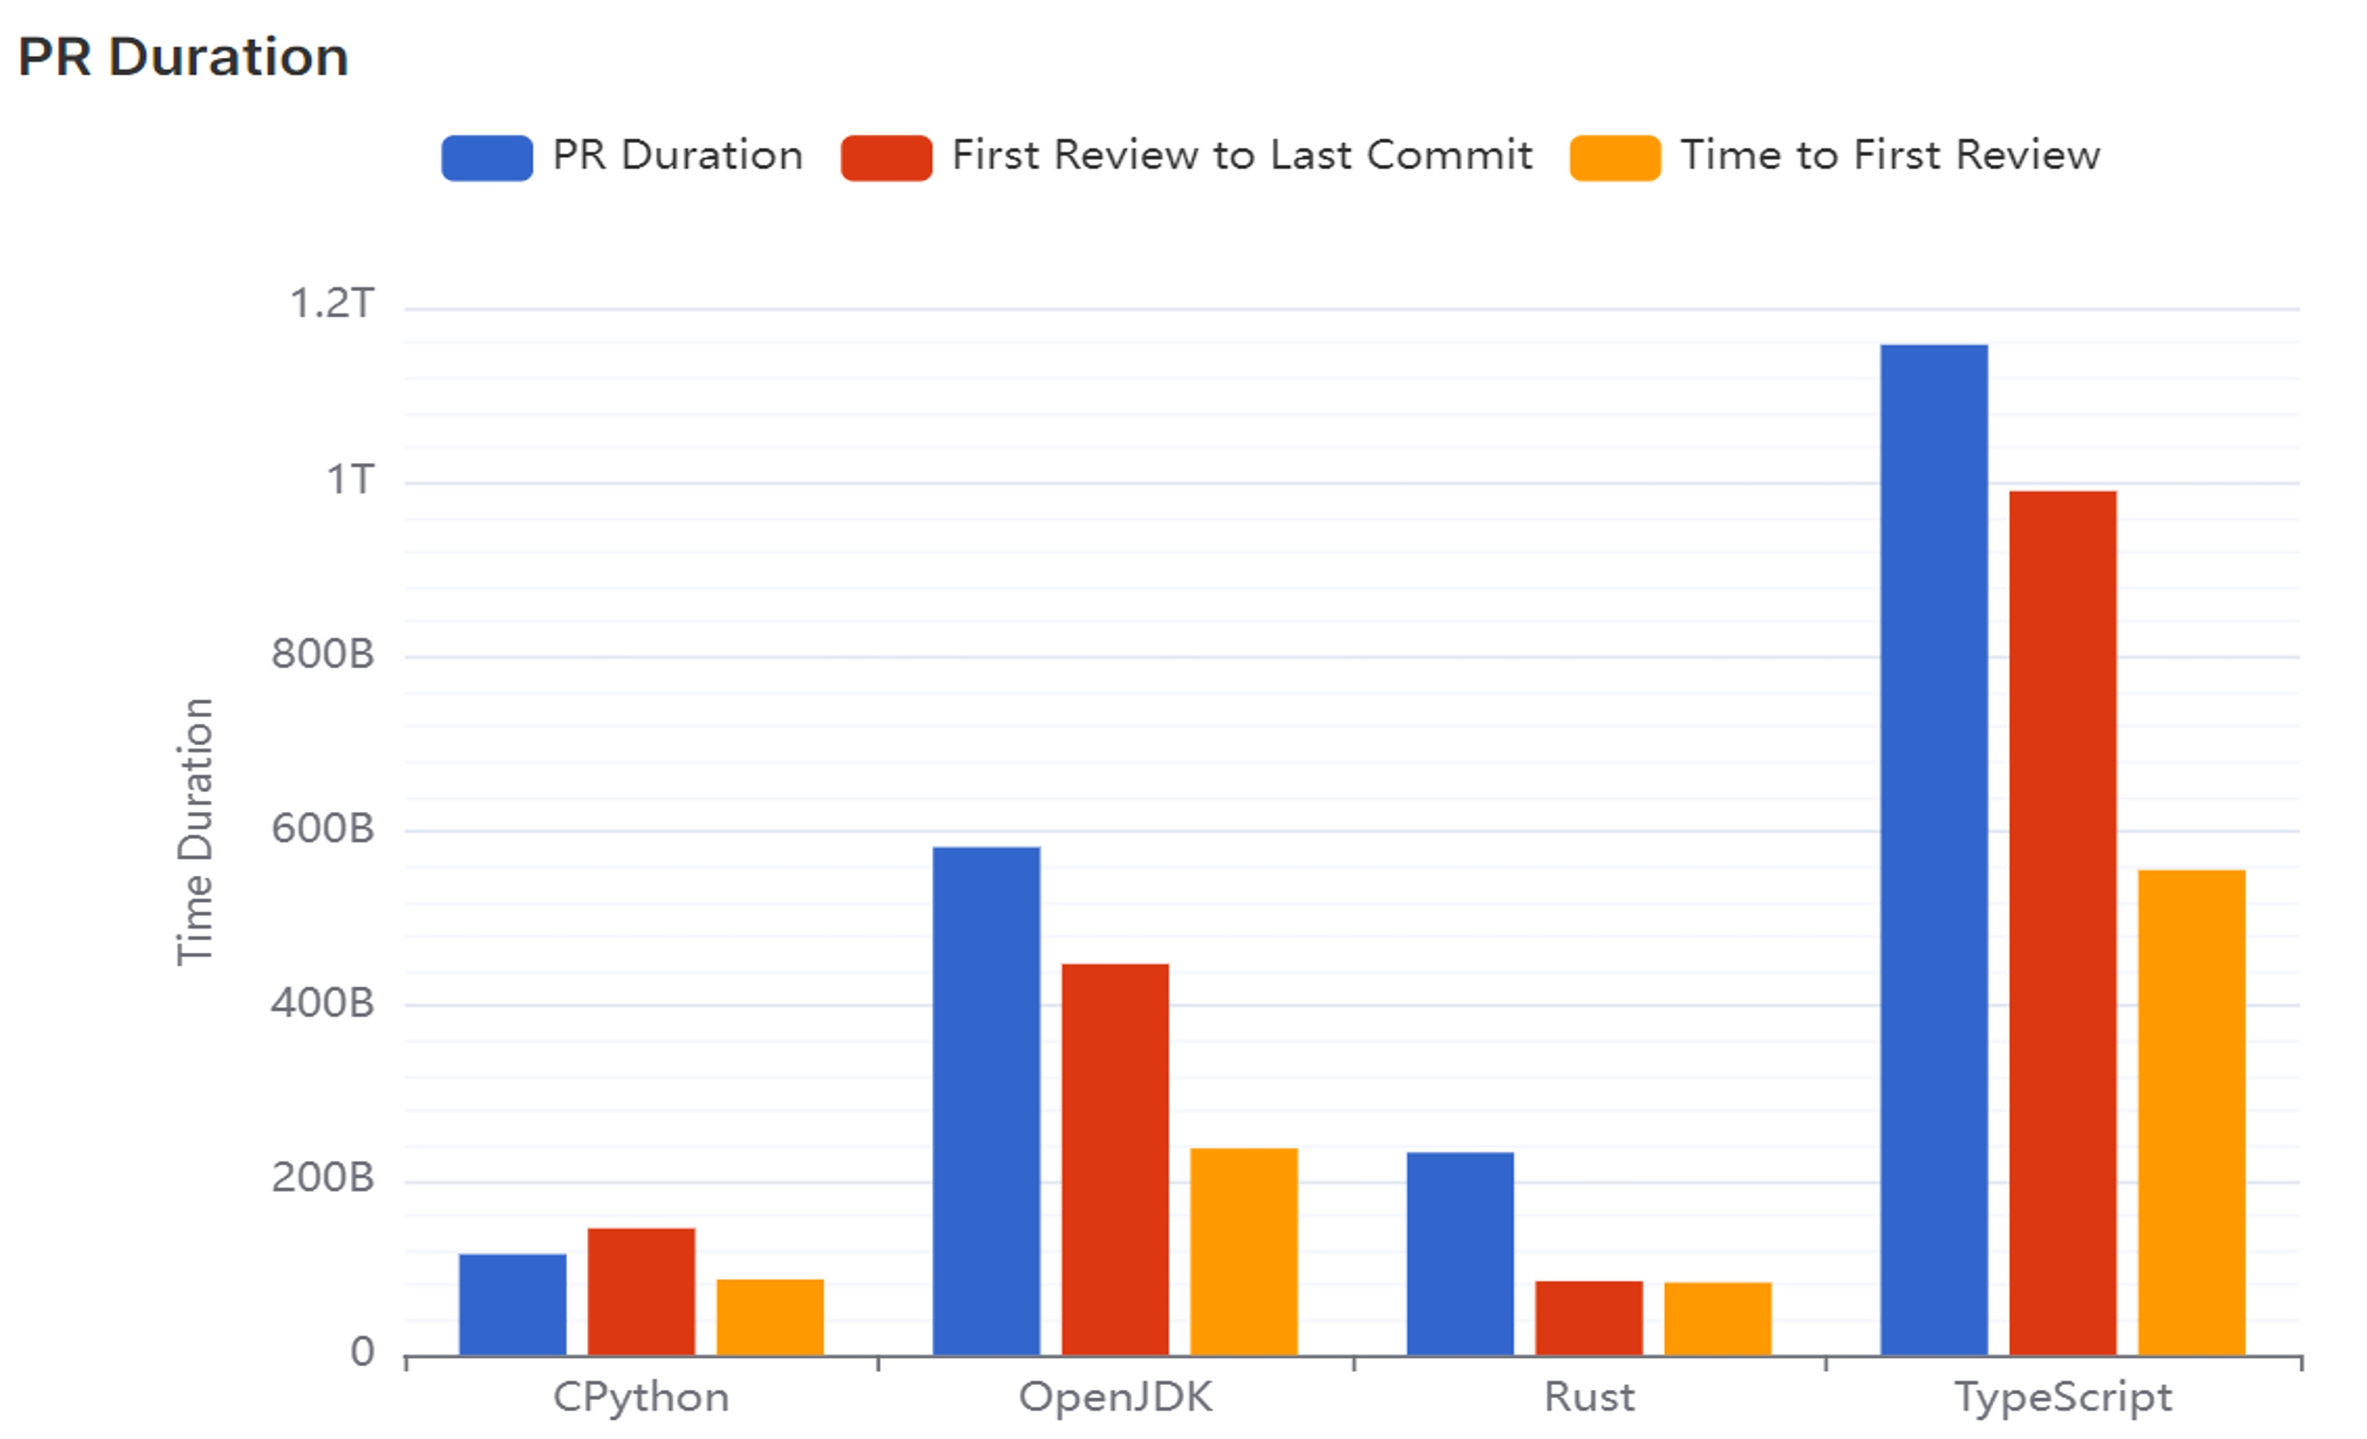
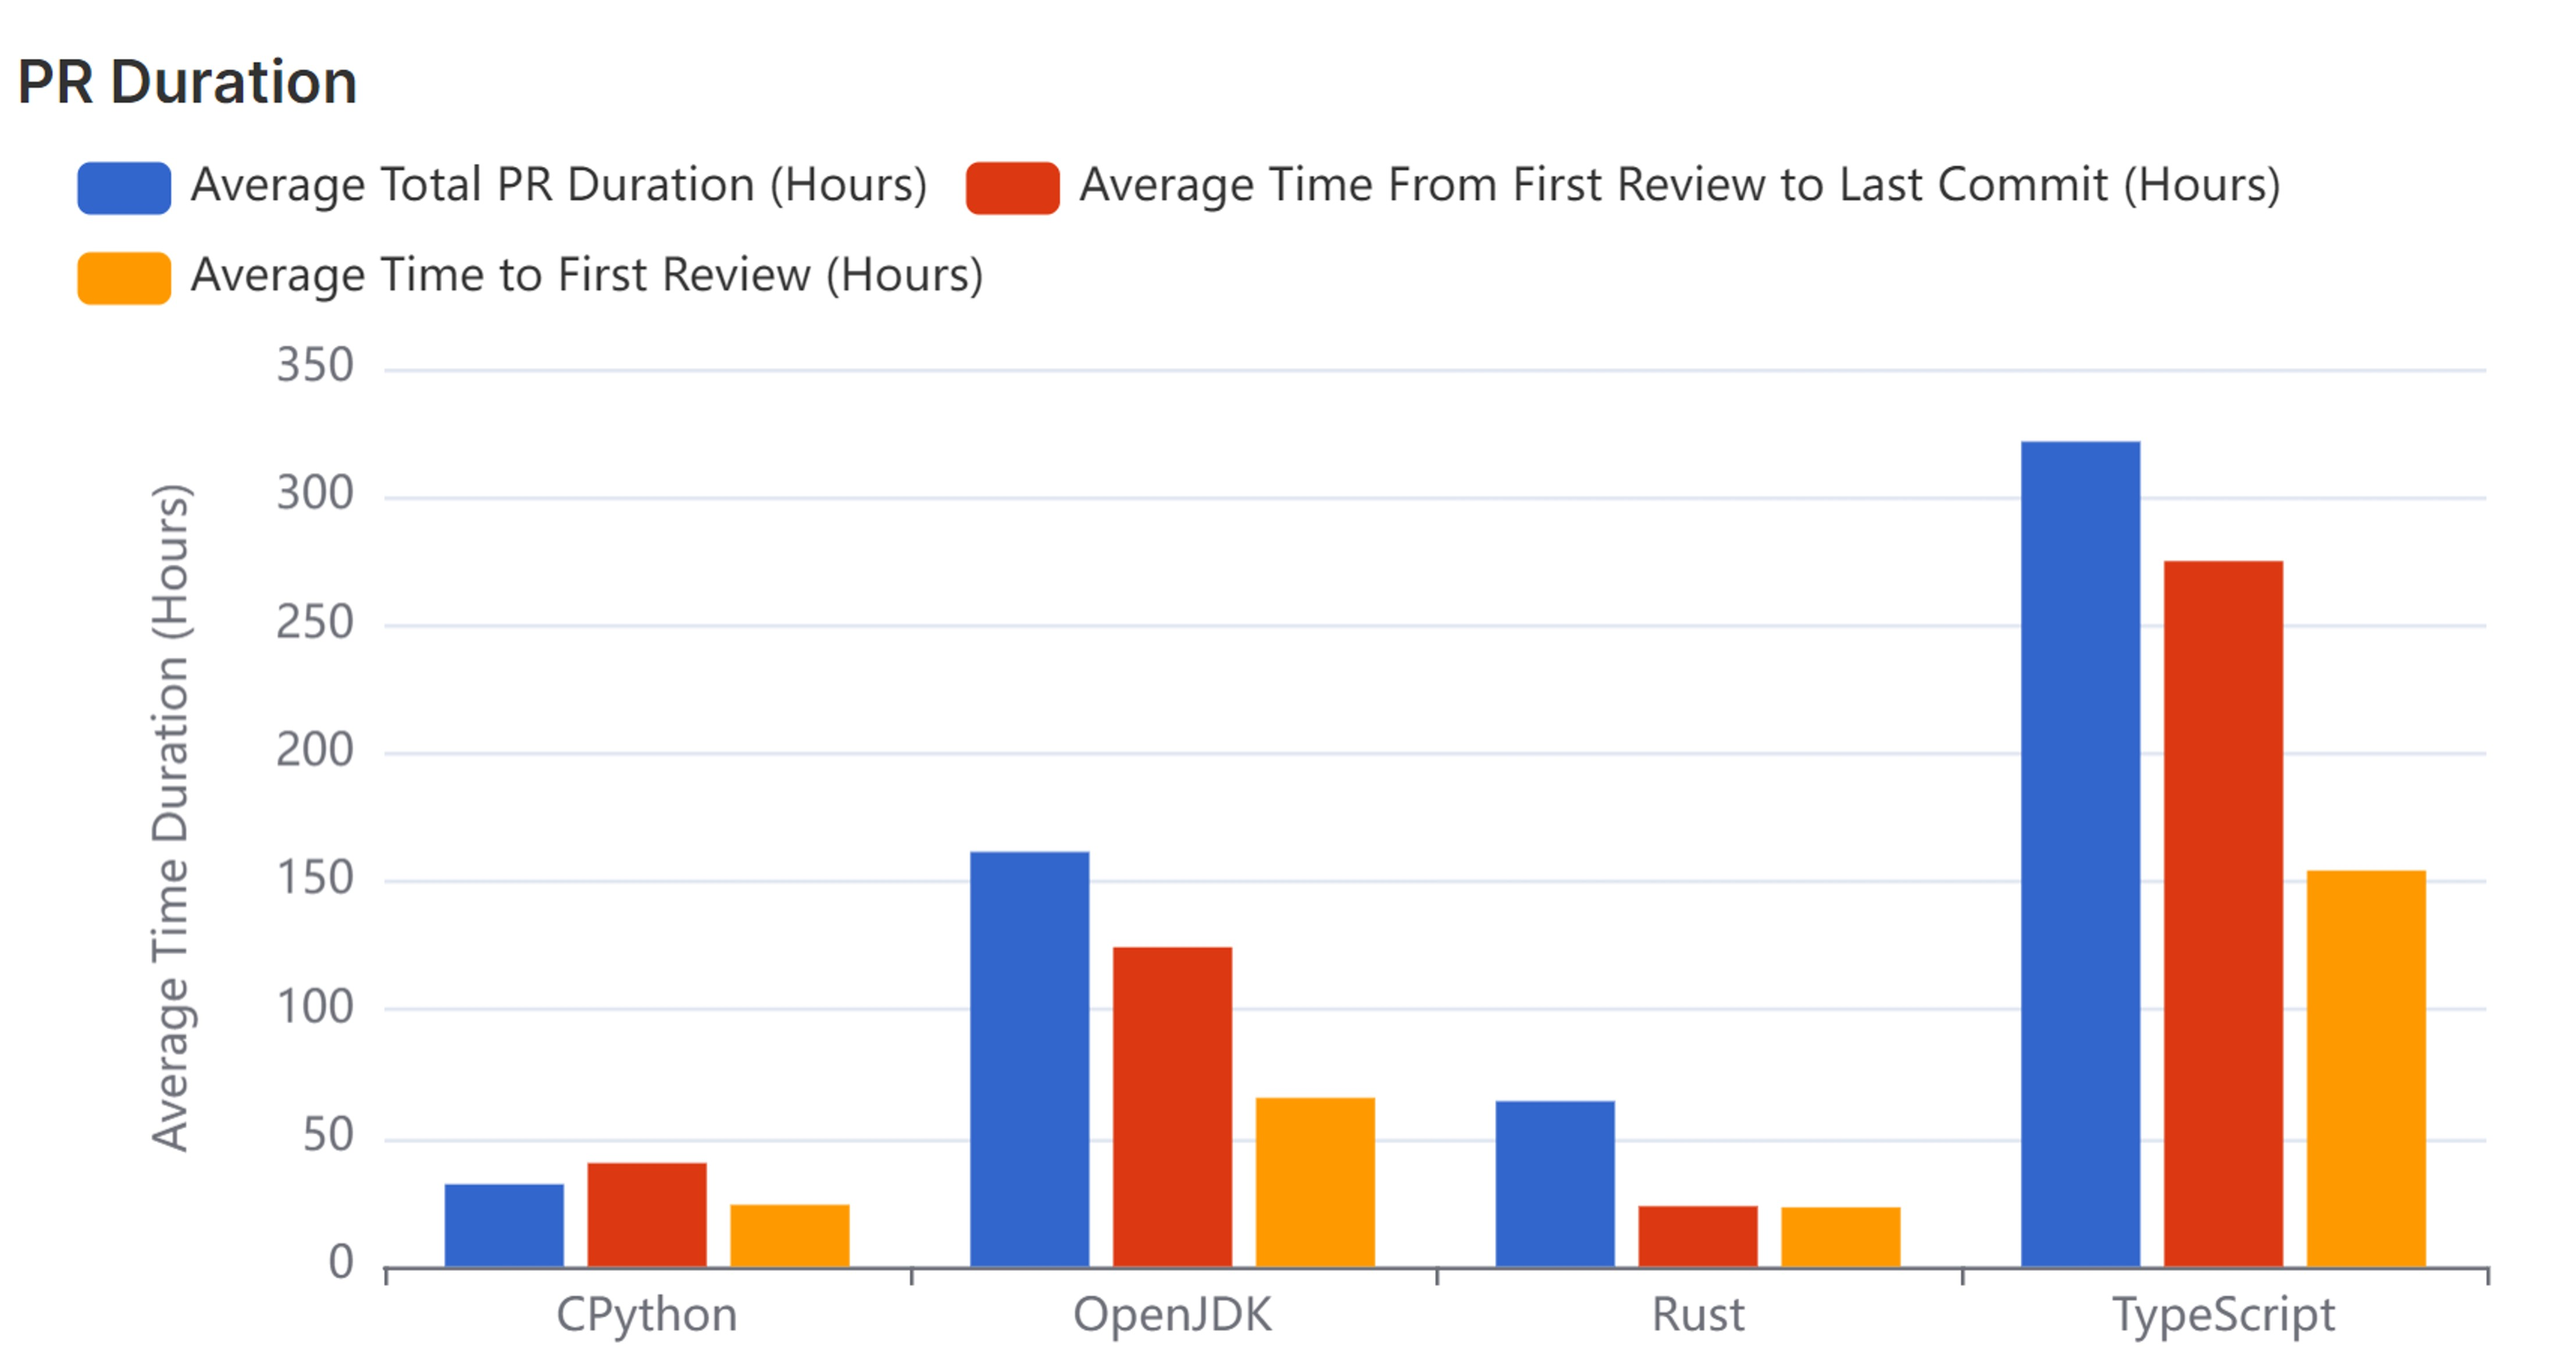
changes based on feedback

diff --git a/_posts/2024-07-02-investigating-code-quality-from-pr-data.md b/_posts/2024-07-02-investigating-code-quality-from-pr-data.md
@@ -21,7 +21,7 @@ Our team has built a command line tool which, when pointed at a repository, uses
 
 ### Motivation
 
-Generative AI is everywhere, and software development is no exception. Tools such as [GitHub Copilot](https://github.com/features/copilot) and [OpenAI's ChatGPT](https://openai.com/chatgpt/) help developers to rapidly write significant volumes of code, reportedly increasing developer productivity. However, this refers purely to the speed at which code is written. The quality of the code produced is arguably more important, but much more difficult to quantify.
+Generative AI is everywhere, and software development is no exception. Tools such as [GitHub Copilot](https://github.com/features/copilot) and [OpenAI's ChatGPT](https://openai.com/chatgpt/) help developers to quickly write significant amounts of code, reportedly increasing developer productivity. However, this refers purely to the speed at which code is written. The quality of the code produced is arguably more important, but much more difficult to quantify.
 
 The role of a software developer is multi-faceted, and writing code is just one part of the job. Therefore, if GenAI coding tools allow us to write code more quickly, but that code ultimately takes longer to review or is harder to maintain, is it really making us more productive?
 
@@ -35,7 +35,7 @@ These issues are likely to be noticed by reviewers. Therefore, what's written in
 
 ### Pulling this together into a tool
 
-Our team built a tool, to which we provide a GitHub or GitLab URL. It then scrapes the PRs that have been raised within that repository. We take the PR data and process it, to produce a range of different metrics which we can be classified as either deterministic or AI-powered. Our deterministic metrics use data such as the number of files changed, number of comments, requests for change, PR duration, and PR contributors. The AI-powered metrics use LLMs to analyse things like comment tone and subject, and to detect disagreements within comment threads.
+Our team built a tool, to which we provide a GitHub or GitLab URL. It then scrapes the PRs that have been raised within that repository. We take the PR data and process it, to produce a range of different metrics which we classify as either deterministic or AI-powered. Our deterministic metrics use data such as the number of files changed, number of comments, requests for change, PR duration, and PR contributors. The AI-powered metrics use LLMs to analyse things like comment tone and subject, and to detect disagreements within comment threads.
 
 These metrics are then saved to a Parquet file, which can be exported to a [ClickHouse](https://clickhouse.com/clickhouse) database and imported into [Apache Superset](https://superset.apache.org/) to create a dashboard which allows us to visualise and explore the data captured.
 
@@ -45,18 +45,18 @@ To demonstrate our tool, we have used it to analyse 1000 PRs from four different
 
 ![jpg]({{ site.github.url }}/alaws/assets/code-quality/code-quality-analysis-date-combined.jpg "Number of PRs opened per month")
 
-Our tool gathers the 1000 most recent PRs from each repository. For CPython and Rust, these were all created between May and June 2024. In contrast, with TypeScript, there has been a fairly consistent number of PRs opened each month since August 2023. Remarkably, in May 2024, there were 602 PRs opened in the CPython repository, and 623 opened in Rust, which shows us the speed at which these languages are developed.
+We configured the tool to pull the latest 1,000 PRs for each repository (as of 17/06/24). For CPython and Rust, these were all created between May and June 2024. In contrast, with TypeScript, there has been a fairly consistent number of PRs opened each month since August 2023. Remarkably, in May 2024, there were 602 PRs opened in the CPython repository, and 623 opened in Rust, which shows us the speed at which these languages are developed.
 
 ![jpg]({{ site.github.url }}/alaws/assets/code-quality/code-quality-analysis-day-pr-opened.jpg
 "Percentage of PRs opened per day of the week")
 
 The date and times that PRs were opened can give us an indication as to whether the developers working on these repositories are doing it as part of a job or as a hobby. However, this relies on the assumption that those who are contributing as part of their job are raising PRs during working hours, and those contributing as a hobby are more likely to be making contributions during weekends or evenings.
 
-Looking at the percentage of PRs that were opened on each day per repository, we can clearly see that across all the languages, there are fewer opened on weekends, suggesting that the majority of developers contributing to these repositories are doing so as part of a job. If this is the case, the developers working on OpenJDK must particularly enjoy a good work-life balance, as only 6% of their PRs were opened on weekends.
+Looking at the percentage of PRs that were opened on each day per repository, we can clearly see that across all the languages, there are fewer opened on weekends, suggesting that the majority of developers contributing to these repositories are doing so as part of a job. If this is the case, the developers working on OpenJDK must particularly enjoy a particularly good work-life balance, as only 6% of their PRs were opened on weekends.
 
 ![jpg]({{ site.github.url }}/alaws/assets/code-quality/code-quality-analysis-time-pr-opened.jpg "Percentage of PRs opened per hour of the day")
 
-Working on the assumption that developers are predominantly raising PRs during the working day, the times at which PRs are opened can give us an idea of the geographical distributions of the developers working on each repository. For example, we might expect that within a company, the team working on one project are co-located, so depending on time zones, the PRs are raised at specific times within the day.
+Working on the assumption that developers are predominantly raising PRs during the working day, the times at which PRs are opened can give us an idea of the geographical distributions of the developers working on each repository. For example, we might expect that within a company, the team members working on one project are co-located, so depending on time zones, the PRs are raised at specific times within the day.
 
 The above graph shows a rolling average of the percentage of PRs opened at each time, using a period of 3 hours. The graph produced from the Rust repository is flatter, suggesting that there is a more even geographical distribution of developers, compared to the other languages. CPython and OpenJDK seem to have some geographical distribution, with a modest concentration of their developers being based in America and Europe respectively. In contrast, Typescript seems to have a high concentration of developers based in America and Canada, which can be confirmed by exploring the [repository contributors](https://github.com/microsoft/TypeScript/graphs/contributors).
 
